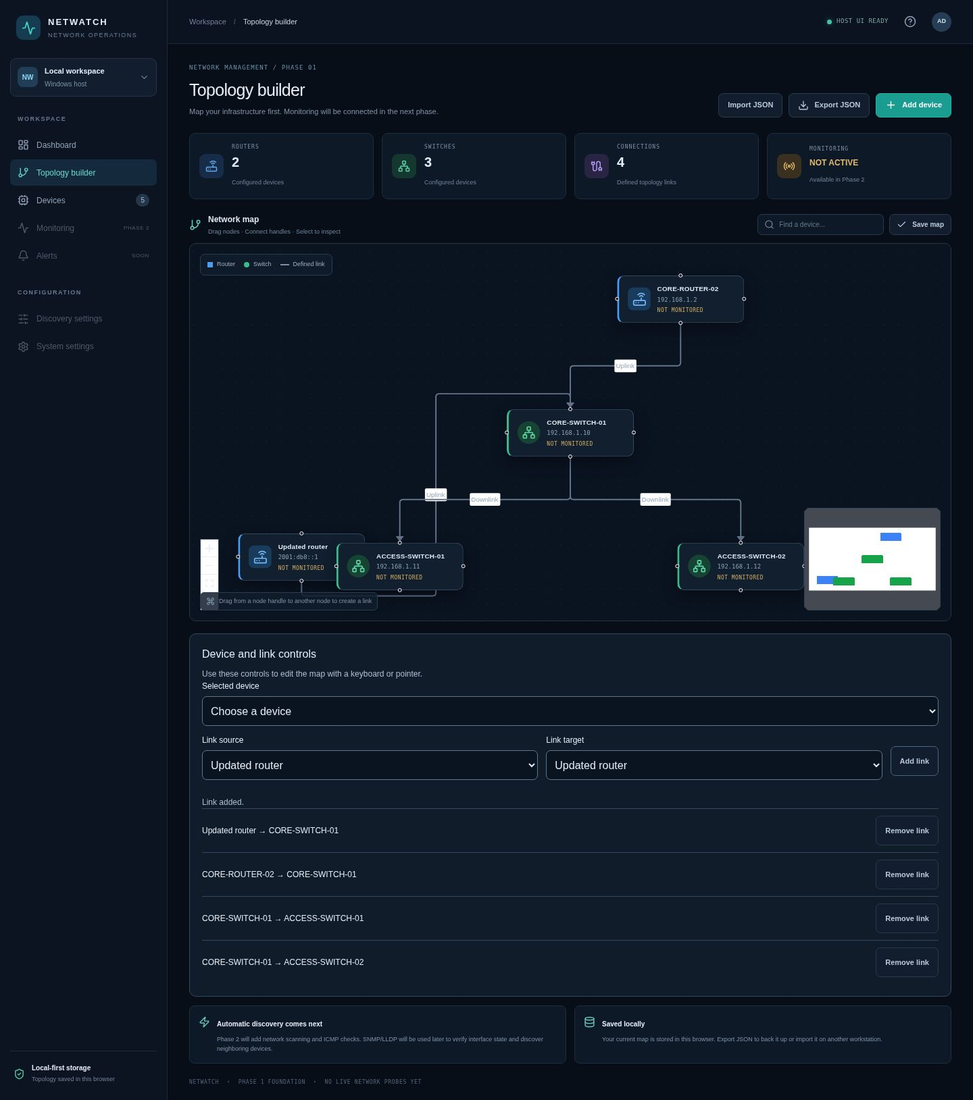
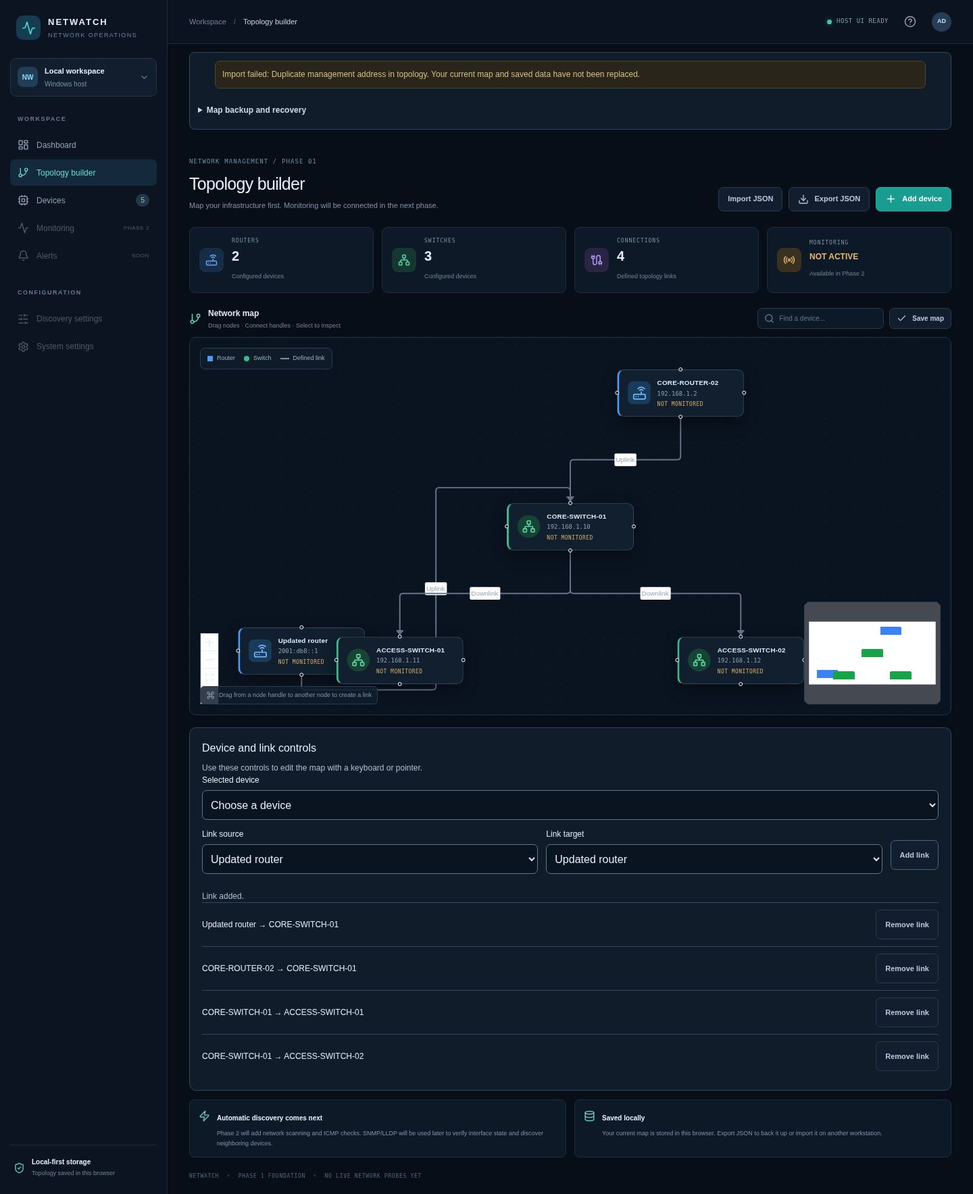
Add saved-map recovery downloads and accessible backup/import flows (#22)
* feat: add safe saved-map recovery and accessible backup flows

* test: wait for visible map before recovery screenshots

* test: foreground recovery preview before screenshot readiness check

---------

diff --git a/src/App.jsx b/src/App.jsx
@@ -13,6 +13,7 @@ import RouterNode from './nodes/RouterNode'
 import SwitchNode from './nodes/SwitchNode'
 import Dashboard from './Dashboard'
 import DeviceDialog from './DeviceDialog'
+import RecoveryDialog from './RecoveryDialog'
 import InventoryControls from './InventoryControls'
 import { createId } from './id'
 
@@ -47,6 +48,11 @@ export default function App() {
 
   const [storageError, setStorageError] = useState(saved.error)
   const [autosavePaused, setAutosavePaused] = useState(Boolean(saved.error))
+  const [recovery, setRecovery] = useState(saved.recovery)
+  const [pendingAction, setPendingAction] = useState(null)
+  const [importError, setImportError] = useState('')
+  const [importBusy, setImportBusy] = useState(false)
+  const [backupNotice, setBackupNotice] = useState('')
   const importInput = useRef(null)
 
   useEffect(() => {
@@ -55,7 +61,8 @@ export default function App() {
       writeTopology(localStorage, { nodes, edges })
       setStorageError('')
     } catch {
-      setStorageError('Map could not be saved. Export JSON to keep a backup, then retry Save map.')
+      setBackupNotice('')
+      setStorageError('Map could not be saved. Autosave is paused. Export the current map to keep a backup, then retry saving.')
       setAutosavePaused(true)
     }
   }, [nodes, edges, autosavePaused])
@@ -65,13 +72,15 @@ export default function App() {
     const file = event.target.files?.[0]
     event.target.value = ''
     if (!file) return
+    setImportBusy(true); setImportError(''); setBackupNotice('')
     try {
       if (file.size > 5 * 1024 * 1024) throw new Error('Choose a JSON file smaller than 5 MB.')
       const topology = validateTopology(JSON.parse(await file.text()))
-      if (!window.confirm('Replace this map with the imported map? Export your current map first if you need a backup.')) return
-      setNodes(topology.nodes); setEdges(topology.edges); setSelectedNode(null)
+      setPendingAction({ kind: 'import', topology })
     } catch (error) {
-      window.alert(`Import failed: ${error.message}`)
+      setImportError(`Import failed: ${error.message}`)
+    } finally {
+      setImportBusy(false)
     }
   }
 
@@ -110,22 +119,42 @@ export default function App() {
   const routerCount = nodes.filter(n => n.type === 'router').length
   const switchCount = nodes.filter(n => n.type === 'switch').length
 
-  const exportTopology = () => {
-    const blob = new Blob([JSON.stringify({ exportedAt: new Date().toISOString(), ...validateTopology({ nodes, edges }) }, null, 2)], { type: 'application/json' })
-    const url = URL.createObjectURL(blob)
-    const a = document.createElement('a'); a.href = url; a.download = 'netwatch-topology.json'; a.click()
-    URL.revokeObjectURL(url)
+  const download = (content, filename, type) => {
+    const url = URL.createObjectURL(new Blob([content], { type }))
+    const link = document.createElement('a')
+    link.href = url; link.download = filename; link.click()
+    setTimeout(() => URL.revokeObjectURL(url), 1000)
   }
 
-  const saveNow = () => {
-    if (autosavePaused && !window.confirm('Replace the saved map with the current map and resume autosave?')) return
+  const exportTopology = () => {
+    download(JSON.stringify({ exportedAt: new Date().toISOString(), ...validateTopology({ nodes, edges }) }, null, 2), 'netwatch-topology.json', 'application/json')
+  }
+  const downloadOriginal = () => {
+    if (typeof recovery?.raw === 'string') download(recovery.raw, 'netwatch-original-saved-content.txt', 'text/plain;charset=utf-8')
+  }
+
+  const persistCurrent = () => {
     try {
       writeTopology(localStorage, { nodes, edges })
-      setStorageError(''); setAutosavePaused(false)
+      setStorageError(''); setAutosavePaused(false); setRecovery(null)
+      setBackupNotice('Map saved. Autosave is active.')
       setSavedNotice(true); setTimeout(() => setSavedNotice(false), 1800)
     } catch {
-      setStorageError('Map could not be saved. Export JSON to keep a backup.')
+      setStorageError('Map could not be saved. Autosave is paused. Export the current map to keep a backup.')
+      setAutosavePaused(true)
     }
+  }
+  const saveNow = () => {
+    setBackupNotice('')
+    if (autosavePaused) setPendingAction({ kind: 'save' })
+    else persistCurrent()
+  }
+  const confirmRecovery = () => {
+    if (pendingAction.kind === 'import') {
+      setNodes(pendingAction.topology.nodes); setEdges(pendingAction.topology.edges); setSelectedNode(null); setQuery('')
+      setBackupNotice(autosavePaused ? 'Map imported into this view. Autosave remains paused; replace the saved map explicitly to save it.' : 'Map imported. Autosave is active.')
+    } else persistCurrent()
+    setPendingAction(null)
   }
 
   return (
@@ -155,12 +184,22 @@ export default function App() {
           <div className="top-actions"><div className="host-status"><span className="pulse-dot"/> {view === 'dashboard' ? 'MONITORING OFFLINE' : 'HOST UI READY'}</div><button className="icon-button" aria-label="Topology help" onClick={() => window.alert('Add devices, drag them to arrange the map, and connect their handles. Select a device to inspect it. Export JSON for a backup; import JSON to restore a map. Monitoring is not active yet.')}><CircleHelp size={18}/></button><div className="avatar">AD</div></div>
         </header>
 
-        {storageError && <p className="notice storage-warning" role="alert">{storageError} Open the topology editor to save or export a backup.</p>}
+        <section className="backup-recovery" aria-label="Map backup and recovery">
+          {storageError && <p className="notice storage-warning" role="alert">{storageError}</p>}
+          {importError && <p className="notice storage-warning" role="alert">{importError} Your current map and saved data have not been replaced.</p>}
+          <details open={storageError ? true : undefined}>
+            <summary>Map backup and recovery</summary>
+            <p>Export current map downloads the visible inventory, never sample data. Import validates a JSON backup before asking to replace the visible map. Keep a backup before replacing any saved content.</p>
+            {recovery && <p>{typeof recovery.raw === 'string' ? 'Download original saved content preserves the unreadable saved text exactly. It is separate from the current visible map.' : 'The original saved content is unavailable because storage access was denied. Export the visible map, allow browser storage, then reload to access the original before replacing it.'}</p>}
+            <div className="backup-actions"><button className="button secondary" onClick={exportTopology}>Export current map</button><button className="button secondary" disabled={importBusy} onClick={() => importInput.current.click()}>{importBusy ? 'Reading backup…' : 'Import backup'}</button><button className="button secondary" disabled={importBusy} onClick={saveNow}>{autosavePaused ? 'Replace saved map…' : 'Save current map'}</button>{typeof recovery?.raw === 'string' && <button className="button secondary" onClick={downloadOriginal}>Download original saved content</button>}</div>
+          </details>
+          <p className="backup-status" role="status">{importBusy ? 'Validating backup…' : backupNotice}</p>
+          <input ref={importInput} type="file" accept=".json,application/json" hidden onChange={importTopology}/>
+        </section>
         {view === 'dashboard' ? <Dashboard nodes={nodes} edges={edges} onEdit={() => setView('editor')}/> : <section className="page-content" id="topology">
-          <input ref={importInput} type="file" accept=".json,application/json" hidden onChange={importTopology} />
           <div className="page-heading">
             <div><div className="eyebrow">NETWORK MANAGEMENT / PHASE 01</div><h1>Topology builder</h1><p>Map your infrastructure first. Monitoring will be connected in the next phase.</p></div>
-            <div className="heading-actions"><button className="button secondary" onClick={() => importInput.current.click()}>Import JSON</button><button className="button secondary" onClick={exportTopology}><Download size={16}/> Export JSON</button><button className="button primary" onClick={() => setShowModal('add')}><Plus size={17}/> Add device</button></div>
+            <div className="heading-actions"><button className="button secondary" disabled={importBusy} onClick={() => importInput.current.click()}>Import JSON</button><button className="button secondary" onClick={exportTopology}><Download size={16}/> Export JSON</button><button className="button primary" onClick={() => setShowModal('add')}><Plus size={17}/> Add device</button></div>
           </div>
 
           <div className="stats-grid" id="overview">
@@ -212,6 +251,7 @@ export default function App() {
           <footer>NETWATCH <span>•</span> PHASE 1 FOUNDATION <span>•</span> NO LIVE NETWORK PROBES YET</footer>
         </section>}
       </main>
+      {pendingAction && <RecoveryDialog action={pendingAction} paused={autosavePaused} unavailable={recovery?.raw === null} hasOriginal={typeof recovery?.raw === 'string'} onDownloadOriginal={downloadOriginal} onClose={() => setPendingAction(null)} onConfirm={confirmRecovery}/>}
       {showModal && <DeviceDialog device={showModal === 'edit' ? selectedNode : null} nodes={nodes} onClose={() => setShowModal(false)} onSave={saveDevice}/>}
     </div>
   )

diff --git a/src/DeviceDialog.jsx b/src/DeviceDialog.jsx
@@ -1,20 +1,15 @@
-import { useLayoutEffect, useRef, useState } from 'react'
+import { useState } from 'react'
+import useModal from './useModal'
 import { deviceFields } from './inventory'
 
 export default function DeviceDialog({ device, nodes, onSave, onClose }) {
-  const dialog = useRef(null)
+  const modal = useModal(onClose)
+  const dialog = modal.ref
   const [kind, setKind] = useState(device?.type || 'switch')
   const [label, setLabel] = useState(device?.data.label || '')
   const [ip, setIp] = useState(device?.data.ip || '')
   const [description, setDescription] = useState(device?.data.description || '')
   const [errors, setErrors] = useState({})
-  useLayoutEffect(() => {
-    const trigger = document.activeElement
-    const element = dialog.current
-    element.showModal()
-    dialog.current.querySelector('#device-name').focus()
-    return () => { element.close(); trigger?.focus() }
-  }, [])
   const submit = event => {
     event.preventDefault()
     const nextErrors = {}
@@ -28,18 +23,12 @@ export default function DeviceDialog({ device, nodes, onSave, onClose }) {
     }
     onSave({ kind, ...deviceFields({ label, ip, description }, nodes, device?.id) })
   }
-  return <dialog ref={dialog} className="modal device-dialog" onKeyDown={event => {
-    if (event.key !== 'Tab') return
-    const controls = [...dialog.current.querySelectorAll('button:not([disabled]), input:not([disabled]), select:not([disabled])')]
-    const first = controls[0], last = controls.at(-1)
-    if (event.shiftKey && document.activeElement === first) { event.preventDefault(); last.focus() }
-    else if (!event.shiftKey && document.activeElement === last) { event.preventDefault(); first.focus() }
-  }} aria-labelledby="device-dialog-title" onCancel={event => { event.preventDefault(); onClose() }} onClick={event => { if (event.target === dialog.current) { const box = dialog.current.getBoundingClientRect(); if (event.clientX < box.left || event.clientX > box.right || event.clientY < box.top || event.clientY > box.bottom) onClose() } }}>
+  return <dialog {...modal} className="modal device-dialog" aria-labelledby="device-dialog-title">
     <form onSubmit={submit} noValidate>
       <div className="modal-head"><h2 id="device-dialog-title">{device ? 'Edit network device' : 'Add network device'}</h2><button type="button" className="icon-button" aria-label="Close device dialog" onClick={onClose}>×</button></div>
       {!device && <><label className="field-label" htmlFor="device-kind">Device type</label><select id="device-kind" value={kind} onChange={event => setKind(event.target.value)}><option value="switch">Switch</option><option value="router">Router</option></select></>}
       <label className="field-label" htmlFor="device-name">Device name (required)</label>
-      <input id="device-name" required maxLength={100} value={label} onChange={event => setLabel(event.target.value)} aria-invalid={Boolean(errors.label)} aria-describedby={errors.label ? 'name-error' : undefined}/>
+      <input data-initial-focus id="device-name" required maxLength={100} value={label} onChange={event => setLabel(event.target.value)} aria-invalid={Boolean(errors.label)} aria-describedby={errors.label ? 'name-error' : undefined}/>
       {errors.label && <p id="name-error" className="field-error" role="alert">{errors.label}</p>}
       <label className="field-label" htmlFor="device-ip">Management IP address</label>
       <input id="device-ip" maxLength={253} value={ip} onChange={event => setIp(event.target.value)} aria-invalid={Boolean(errors.ip)} aria-describedby={errors.ip ? 'ip-error ip-help' : 'ip-help'}/>

diff --git a/tests/topology.test.js b/tests/topology.test.js
@@ -26,7 +26,7 @@ test('rejects malformed devices and links', () => {
 
 test('missing storage loads defaults; corrupt and inaccessible storage preserve data', () => {
   const fallback = topology()
-  assert.deepEqual(readTopology({ getItem: () => null }, fallback), { topology: fallback, error: '' })
+  assert.deepEqual(readTopology({ getItem: () => null }, fallback), { topology: fallback, error: '', recovery: null })
   for (const getItem of [() => '{', () => '{"nodes":{},"edges":[]}', () => { throw Error('denied') }]) {
     const result = readTopology({ getItem }, fallback)
     assert.equal(result.topology, fallback)
@@ -39,4 +39,20 @@ test('accepts legacy exports and rejects future schemas and size limits', () => 
   assert.equal(validateTopology(topology()).schemaVersion, 1)
   assert.throws(() => validateTopology({ ...topology(), schemaVersion: 2 }), /schema/)
   assert.throws(() => validateTopology({ nodes: Array(2001).fill(null), edges: [] }), /2,000/)
+})
+
+
+test('recovery retains exact unreadable saved text and distinguishes denied access', () => {
+  const fallback = topology()
+  for (const raw of ['', ' {broken\ntext', JSON.stringify({ schemaVersion: 99, nodes: [], edges: [] })]) {
+    const storage = { getItem: () => raw, setItem: () => assert.fail('must not overwrite') }
+    const result = readTopology(storage, fallback)
+    assert.equal(result.recovery.raw, raw)
+    assert.equal(result.topology, fallback)
+    assert.match(result.error, /fallback/)
+  }
+  const result = readTopology({ getItem() { throw Error('denied') } }, fallback)
+  assert.equal(result.recovery.raw, null)
+  assert.match(result.error, /storage.*read/)
+  assert.equal(readTopology({ getItem: () => null }, fallback).recovery, null)
 })

diff --git a/src/RecoveryDialog.jsx b/src/RecoveryDialog.jsx
@@ -1,0 +1,13 @@
+import useModal from './useModal'
+
+export default function RecoveryDialog({ action, paused, onClose, onConfirm, onDownloadOriginal, hasOriginal, unavailable }) {
+  const modal = useModal(onClose)
+  const importing = action.kind === 'import'
+  return <dialog {...modal} className="modal device-dialog" aria-labelledby="recovery-dialog-title">
+    <h2 id="recovery-dialog-title">{importing ? 'Import this map?' : 'Replace saved map?'}</h2>
+    <p>{importing ? `Replace the visible map with ${action.topology.nodes.length} devices and ${action.topology.edges.length} links? Export your current map first if you need a backup.` : 'Write the current visible map to browser storage and resume autosave? This replaces the previously saved content.'}</p>
+    {paused && <p>{importing ? 'Autosave will stay paused. The original saved content will remain untouched until you explicitly replace the saved map.' : hasOriginal ? 'Download the original saved content before replacing it if you need to recover it later.' : unavailable ? 'Storage could not be read, so its existing contents cannot be backed up here. Allow storage access and reload before replacing it if you need to recover that data.' : 'Export the current map before retrying if you need a backup.'}</p>}
+    {hasOriginal && <button className="button secondary" onClick={onDownloadOriginal}>Download original saved content</button>}
+    <div className="modal-actions"><button data-initial-focus className="button secondary" onClick={onClose}>Cancel</button><button className="button primary" onClick={onConfirm}>{importing ? 'Import map' : 'Replace saved map'}</button></div>
+  </dialog>
+}

diff --git a/src/useModal.js b/src/useModal.js
@@ -1,0 +1,29 @@
+import { useLayoutEffect, useRef } from 'react'
+
+export default function useModal(onClose) {
+  const dialog = useRef(null)
+  useLayoutEffect(() => {
+    const trigger = document.activeElement
+    const element = dialog.current
+    element.showModal()
+    const initialFocus = element.querySelector('[data-initial-focus]') || element.querySelector('button, input, select')
+    initialFocus?.focus()
+    return () => { element.close(); trigger?.focus() }
+  }, [])
+  return {
+    ref: dialog,
+    onCancel: event => { event.preventDefault(); onClose() },
+    onKeyDown: event => {
+      if (event.key !== 'Tab') return
+      const controls = [...dialog.current.querySelectorAll('button:not([disabled]), input:not([disabled]), select:not([disabled])')]
+      const first = controls[0], last = controls.at(-1)
+      if (event.shiftKey && document.activeElement === first) { event.preventDefault(); last.focus() }
+      else if (!event.shiftKey && document.activeElement === last) { event.preventDefault(); first.focus() }
+    },
+    onClick: event => {
+      if (event.target !== dialog.current) return
+      const box = dialog.current.getBoundingClientRect()
+      if (event.clientX < box.left || event.clientX > box.right || event.clientY < box.top || event.clientY > box.bottom) onClose()
+    },
+  }
+}

diff --git a/src/topology.js b/src/topology.js
@@ -45,11 +45,16 @@ export function validateTopology(value) {
 }
 
 export function readTopology(storage, fallback) {
+  let raw
   try {
-    const raw = storage.getItem(STORAGE_KEY)
-    return { topology: raw === null ? fallback : validateTopology(JSON.parse(raw)), error: '' }
+    raw = storage.getItem(STORAGE_KEY)
   } catch {
-    return { topology: fallback, error: 'Saved map could not be loaded. Autosave is paused to preserve it. Export your map before replacing the saved data.' }
+    return { topology: fallback, recovery: { raw: null }, error: 'Browser storage could not be read. Autosave is paused. Export the visible map before reloading; allow storage access and reload to recover the original saved content.' }
+  }
+  try {
+    return { topology: raw === null ? fallback : validateTopology(JSON.parse(raw)), recovery: null, error: '' }
+  } catch {
+    return { topology: fallback, recovery: { raw }, error: 'Saved map could not be loaded. Autosave is paused to preserve it. A fallback map was loaded instead of the saved original. Download the original saved content before replacing it.' }
   }
 }
 

diff --git a/src/styles.css b/src/styles.css
@@ -55,3 +55,12 @@ select:focus-visible{outline:2px solid #69d7d0;outline-offset:3px}
 @media(max-width:720px){.position-form,.link-form{flex-direction:column;align-items:stretch}.position-form label,.link-form label{width:100%;min-width:0}.inventory-controls{padding:12px}.heading-actions{flex-wrap:wrap}.device-dialog{width:calc(100% - 24px);padding:16px}}
 .link-endpoint{flex:1;min-width:150px}
 @media(max-width:720px){.link-endpoint{min-width:0;width:100%}}
+.backup-recovery{margin:12px 32px;color:#cbd8e6;background:#101c2a;border:1px solid #34485d;border-radius:8px;padding:12px;font-size:12px}
+.backup-recovery summary{cursor:pointer;min-height:32px;align-content:center;font-weight:600}
+.backup-recovery p{line-height:1.6}
+.backup-actions{display:flex;flex-wrap:wrap;gap:8px}
+.backup-actions .button{min-height:44px}
+.backup-status:empty{display:none}
+.backup-recovery .notice{margin-top:0;font-size:12px}
+summary:focus-visible{outline:2px solid #69d7d0;outline-offset:3px}
+@media(max-width:720px){.backup-recovery{margin:12px}.backup-actions{flex-direction:column;align-items:stretch}}

diff --git a/README.md b/README.md
@@ -93,7 +93,7 @@ Read [AI contribution rules](AGENTS.md), the [product brief](docs/PROJECT.md), [
 
 See [architecture](docs/ARCHITECTURE.md), [implementation roadmap](docs/ROADMAP.md), and [contributing](CONTRIBUTING.md). The machine-readable [GitHub plan](docs/github-plan.json) defines four milestones and fifteen implementation issues, with a recommended solo order and an explicit Windows MVP release gate. The Publish project plan workflow creates them on GitHub when the plan is pushed to main; check its Actions run for publication status.
 
-Still pending: improved saved-map recovery/import dialogs and ongoing browser regression coverage. Monitoring and remote access are planned, not implemented.
+Saved-map recovery and import confirmations now use keyboard-accessible dialogs; optional browser regression scripts cover inventory and recovery. Monitoring and remote access are planned, not implemented.
 
 Repository: [Osbornejmb/netwatch](https://github.com/Osbornejmb/netwatch). See [issues](https://github.com/Osbornejmb/netwatch/issues), [milestones](https://github.com/Osbornejmb/netwatch/milestones), and [build and plan workflows](https://github.com/Osbornejmb/netwatch/actions).
 
@@ -101,10 +101,24 @@ Repository: [Osbornejmb/netwatch](https://github.com/Osbornejmb/netwatch). See [
 
 Management addresses must be plain IPv4 or IPv6 literals; hostnames, URL/bracket notation, subnet prefixes, IPv6 zone identifiers, and ambiguous IPv4 forms such as leading-zero octets are rejected. Surrounding whitespace is removed; IPv6 is lowercased and compressed before duplicate comparison. IPv4 and IPv6 are distinct address families; IPv4-mapped IPv6 spellings are compared in their canonical IPv6 form. Empty addresses are allowed on multiple inventory entries.
 
-Valid v1 maps keep their IDs, positions, links, and schema. Imports with invalid or duplicate addresses are rejected before replacement. Work on a copy of an older JSON backup: replace descriptive/invalid addresses with literals or empty strings and remove duplicate addresses before importing. If saved browser data fails these checks, autosave pauses and leaves the original saved content untouched; do not confirm replacement until you have a backup. Export saves the current visible map, not the unreadable original. Downloading unreadable saved content is still tracked in #3.
+Valid v1 maps keep their IDs, positions, links, and schema. Imports with invalid or duplicate addresses are rejected before replacement. Work on a copy of an older JSON backup: replace descriptive/invalid addresses with literals or empty strings and remove duplicate addresses before importing. If saved browser data fails these checks, autosave pauses and leaves the original saved content untouched; do not confirm replacement until you have a backup. Export saves the current visible map, not the unreadable original. Use Download original saved content in Map backup and recovery to preserve unreadable saved text separately from the visible map.
 
 These UI checks do not authorize probes. The future host API must independently validate addresses, require monitoring opt-in, and use bounded shell-free probes.
 
 ## Optional inventory browser regression check
 
 With the build preview running, use an existing Playwright installation to run `node scripts/check-inventory-browser.mjs`. This check is separate from `npm test` and does not add a runtime dependency. `PLAYWRIGHT_MODULE` can point to an external Playwright module, `CHROMIUM_PATH` to a browser executable, and `NETWATCH_URL` to the preview (defaults to `http://127.0.0.1:4173`). It uses a fresh browser context, checks edits/validation/focus/keyboard links/import preservation, and refreshes the inventory review screenshots.
+
+## Backup, import and saved-map recovery
+
+Open **Map backup and recovery** from either the dashboard or editor:
+
+1. **Export current map** downloads the visible real inventory as JSON. Sample-preview devices and statuses are never exported. Keep this file as your normal backup.
+2. **Import backup** validates a JSON file (up to 5 MB), then shows device/link counts and asks before replacing the visible map. Cancel or Escape keeps the current map. Invalid files show an inline error and change neither the visible map nor saved data. The editor's Import JSON uses the same flow.
+3. If saved content is unreadable, autosave pauses and the banner identifies the visible starter map as a fallback. **Download original saved content** downloads the original text unchanged as a `.txt` file, even when it is empty or invalid JSON. This is a recovery copy, not an export of the fallback. Repair a copy offline and import the repaired JSON if needed.
+4. While recovery is active, importing a valid backup changes only the visible map; the original saved content and paused autosave remain protected. After backing up both versions as needed, choose **Replace saved map…**, then explicitly confirm to write the visible map and resume autosave. Cancelling leaves the original untouched. A failed write retains the visible map and recovery copy, and autosave stays paused.
+5. When browser storage access is denied, the app cannot read or download the original. Export the visible map first, allow browser storage, and reload to recover the original. A quota failure also offers an export and explicit retry; the app cannot guarantee persistence until saving succeeds.
+
+The same warnings and controls are available on the dashboard and in the editor. Import/replacement dialogs start on Cancel, trap Tab, close with Escape, and restore keyboard focus.
+
+With preview running, `node scripts/check-recovery-browser.mjs` runs optional recovery/download/restore regression checks using the same external Playwright configuration as the inventory check above. It also refreshes `docs/screenshots/recovery-{desktop,narrow}.jpg`.

diff --git a/docs/WORKLOG.md b/docs/WORKLOG.md
@@ -59,3 +59,20 @@
 - Thirteen Node tests and production build pass. Browser tests against the production build passed for edit preservation, invalid/duplicate input, IPv6 normalization, empty-address creation, modal focus/escape/return, save/cancel, numerical move, keyboard link add/remove, delete with attached-link cleanup, duplicate import rejection and import cancellation.
 - Desktop (1440×1000) and narrow (390×844) checked; screenshots: `docs/screenshots/inventory-desktop.jpg` and `docs/screenshots/inventory-narrow.jpg`. No live probes, host API, SNMP or real-device checks are included. Host API must revalidate before probing (#4/#5). Raw corrupt-data download and import/recovery dialog replacements remain #3 work.
 - Issue #2 stays open until the implementation is merged and acceptance evidence is reviewed. Next: saved-map recovery #3 or the live-monitoring critical path #4.
+
+
+## Issue 1.3 — Saved-map recovery and inventory navigation (2026-11-12)
+
+- #1 and #2 were completed and closed through merged PRs #20/#21. This change implements #3, keeping the existing dashboard/device list/navigation.
+- `readTopology` retains unreadable original text separately from the visible fallback, distinguishing read-access denial from invalid content. The original is downloadable unchanged, including empty text. Denied access offers accurate recovery guidance without pretending an original backup is available.
+- Backup/import/save controls and failure feedback are available in both views. Export always uses actual inventory, even in sample mode. Import validates before a native accessible confirmation; invalid input, Cancel and Escape preserve saved and visible maps. Imports during recovery change only the visible map, keeping autosave paused until separate explicit saved-map replacement succeeds.
+- Recovery dialogs share the tested modal focus logic with device dialogs, start on Cancel, trap forward/reverse Tab, close on Escape and restore focus. Import errors are inline; native import/replacement alert/confirm calls are removed.
+- Fourteen Node tests and production build pass. Optional `scripts/check-recovery-browser.mjs` verifies exact original downloads vs visible exports, malformed/future/invalid/oversize import rejection, cancellation, paused import, explicit replacement, backup/restore, empty/no-match states, sample-safe exports, editor/device-list navigation, denied reads, quota failures and successful retries. Failed replacement retains the raw recovery copy. Existing inventory regression checks also pass after the shared-dialog refactor.
+- Desktop 1440×1000 and narrow 390×844 checked with no document overflow. Review images: `docs/screenshots/recovery-desktop.jpg` and `docs/screenshots/recovery-narrow.jpg`. Browser tests use isolated contexts; they do not probe devices.
+- No dependency or persisted topology schema change. Multi-tab conflict resolution and host persistence remain future work; screen-reader/hardware verification is not claimed. #3 stays open until merge/review of the acceptance evidence.
+- Next: #15 for larger-map evidence in the solo sequence; #4 for the host API on the monitoring critical path.
+
+
+### PR #22 review follow-up
+
+A fresh Node 22 install, fourteen tests and build passed during review. The first recovery browser run timed out only at its final screenshot readiness wait after switching browser contexts; four subsequent diagnostic runs passed all checks. The screenshot setup now explicitly brings the main page forward and scrolls the map into view before checking initialized nodes. Recovery and inventory suites were rerun after this change. No application behavior changed in this follow-up.

diff --git a/docs/ARCHITECTURE.md b/docs/ARCHITECTURE.md
@@ -23,7 +23,7 @@ Bind development and the future API to loopback by default. LAN development is e
 
 ## Recovery and delivery
 
-A failed storage read pauses autosave until the user explicitly replaces the saved data. Failed writes display a warning and preserve the in-memory map for export. Import replacement requires confirmation. CI runs the topology self-checks and production build. Browser interaction and Windows hardware checks remain separate acceptance work in the roadmap.
+A failed storage read pauses autosave until the user explicitly replaces the saved data. Failed writes display a warning and preserve the in-memory map for export. Import replacement requires an accessible confirmation dialog. Unreadable original storage text is retained separately for download; denied access is distinguished from invalid content. Importing while recovery is active changes only the in-memory map and keeps autosave paused. A separate explicit replacement resumes autosave only after a successful write. Recovery/backup controls and failed-save warnings appear in both views. CI runs the topology self-checks and production build. Browser interaction and Windows hardware checks remain separate acceptance work in the roadmap.
 
 ## Dashboard observations
 
@@ -35,4 +35,4 @@ System fonts replace the starter's Google Fonts import so the dashboard does not
 
 `src/inventory.js` defines literal-address normalization and duplicate comparison, shared by add/edit forms and topology import/storage validation. It rejects hostnames, CIDR/zone/bracket syntax and ambiguous IPv4 notation. IPv6 uses the WHATWG URL parser for validation and canonical compression, without network requests; IPv4-mapped IPv6 remains canonical IPv6. Empty addresses are unmonitored inventory entries. Invalid legacy saved maps pause autosave without changing the raw data; no persisted schema change is required.
 
-`DeviceDialog.jsx` uses a modal native dialog, explicit Tab wrapping, Escape handling, associated field errors and focus restoration after close. Edits replace only device data, preserving type, ID, position and connections. Selection is derived from current nodes by ID, so edited/dragged details stay current. `InventoryControls.jsx` provides device selection, X/Y position updates and directed link creation/removal without canvas gestures. The existing pointer workflows remain available.
+`DeviceDialog.jsx` and `RecoveryDialog.jsx` share `useModal.js` for native modal dialogs, explicit Tab wrapping, Escape handling and focus restoration after close. Device fields have associated validation errors. Edits replace only device data, preserving type, ID, position and connections. Selection is derived from current nodes by ID, so edited/dragged details stay current. `InventoryControls.jsx` provides device selection, X/Y position updates and directed link creation/removal without canvas gestures. The existing pointer workflows remain available.

diff --git a/docs/ROADMAP.md b/docs/ROADMAP.md
@@ -59,8 +59,8 @@ Issues: [#10](https://github.com/Osbornejmb/netwatch/issues/10), [#12](https://g
 ## Current evidence and next action
 
 - The original topology/storage foundation is on main. Dashboard UI and solo instructions were merged through [PR #14](https://github.com/Osbornejmb/netwatch/pull/14); its seven tests and production build passed locally and on GitHub, and desktop/narrow browser evidence is attached.
-- #13 is closed following the dashboard merge. Other issues are not complete merely because a prerequisite has a prototype or green CI.
-- Next: complete clean-checkout verification #1, then start host API #4. Complete #2/#3/#15 alongside that sequence before the MVP release gate.
+- #13, #1 and #2 are closed following the dashboard, verification and inventory-editing merges (#14/#20/#21). Other issues are not complete merely because a prerequisite has a prototype or green CI.
+- Saved-map recovery #3 is implemented on its feature branch pending review/merge. Next: larger-map verification #15 in the recommended solo order, or host API #4 on the live-monitoring critical path. Both remain release prerequisites.
 - No live probes, host database, SNMP/LLDP, alerts, or remote access are implemented yet. #16 requires actual approved Windows/device evidence; fixtures alone cannot close it.
 
 ## Plan maintenance
